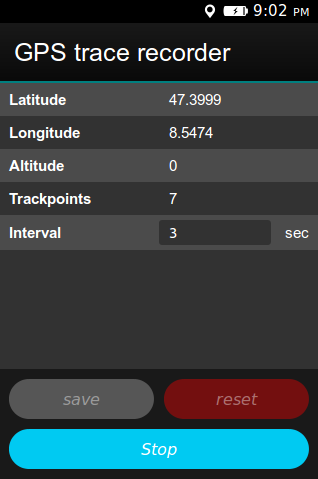
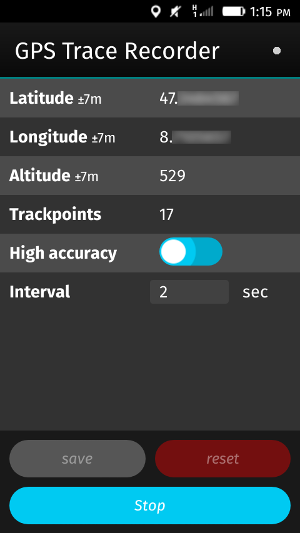
Update documentation, bump version number

diff --git a/README.md b/README.md
@@ -22,15 +22,22 @@ Requirements
 Version history
 ---------------
 
-Version | Date			| Dependencies								| Features	| Tested with
----	|---			| ---									|---		| ---
-1.0	| 2015-03-25		| &bull; lessc 2.2.0<br />&bull; tsc 1.4.1.0<br />&bull; (node 0.10.25)	| &bull; Record GPS Traces<br />&bull; Save recorded traces as gpx<br />&bull; Configure tracking interval<br />&bull; Reset recorded positions | **FxOS Simulator**<br /> &bull; 1.3, 1.4, 2.0 (stable)<br />&bull; 2.1, 2.2, 3.0<br />**Devices**<br />&bull; Mozilla Flame (2.0 pre release)
+Version | Date          | Dependencies      | Features	| Bugfixes   | Tested with
+---	    |---		    |---				|---		|---         |---
+1.0	| 2015-03-25		|                   | &bull; Record GPS Traces<br />&bull; Save recorded traces as gpx<br />&bull; Configure tracking interval<br />&bull; Reset recorded positions | | **FxOS Simulator**<br /> &bull; 1.3, 1.4, 2.0 (stable)<br />&bull; 2.1, 2.2, 3.0<br />**Devices**<br />&bull; Mozilla Flame (2.0 pre release)
+1.1	| 2015-04-03		|                   | &bull; Accuracy<br />&bull; Recording status visibility | &bull; Localization problem if gps is slow | **FxOS Simulator**<br /> &bull; 1.3, 1.4, 2.0 (stable)<br />&bull; 2.1, 2.2, 3.0<br />**Devices**<br />&bull; Mozilla Flame (2.0 pre release)
 
 
 Compile from source
 -------------------
 
-run build.sh to compile code and styles using tsc and lessc of node.js.
+Run build.sh to compile code and styles using tsc and lessc of node.js.
+
+### Required tools
+
+* lessc 2.2.0
+* tsc 1.4.1.0
+* (node 0.10.25)
 
 
 ### Compile styles by hand
@@ -57,7 +64,4 @@ zip -r GPSTraceRecorder-x.y.z.zip * -x ".git" -x "*.odg" -x "*.ts" -x "*.less" -
 Todo
 ----
 
-* **Feature**: Show error notifications for geolocation
-* **Feature**: Show pending animation until recording
-* **Refactoring**: Extract position recorder from TraceFactory
 * **Feature**: Localization
